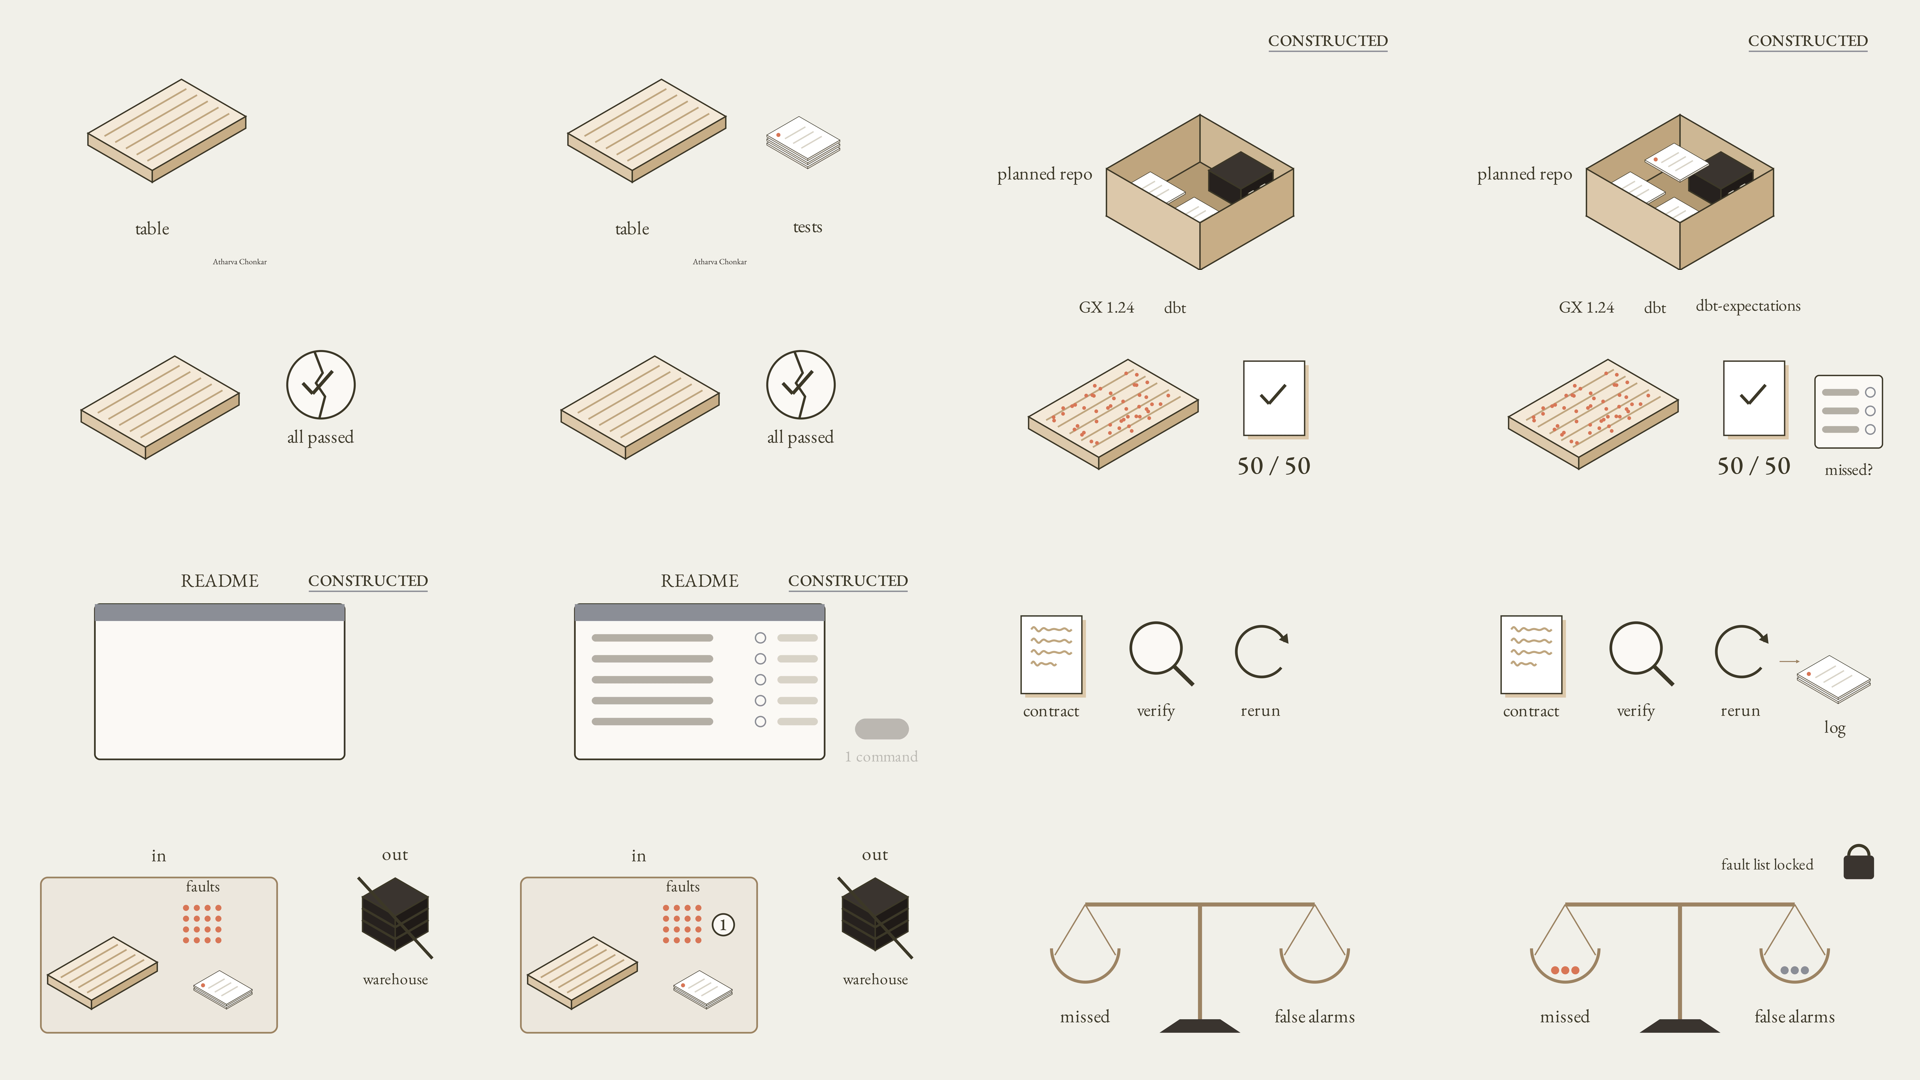
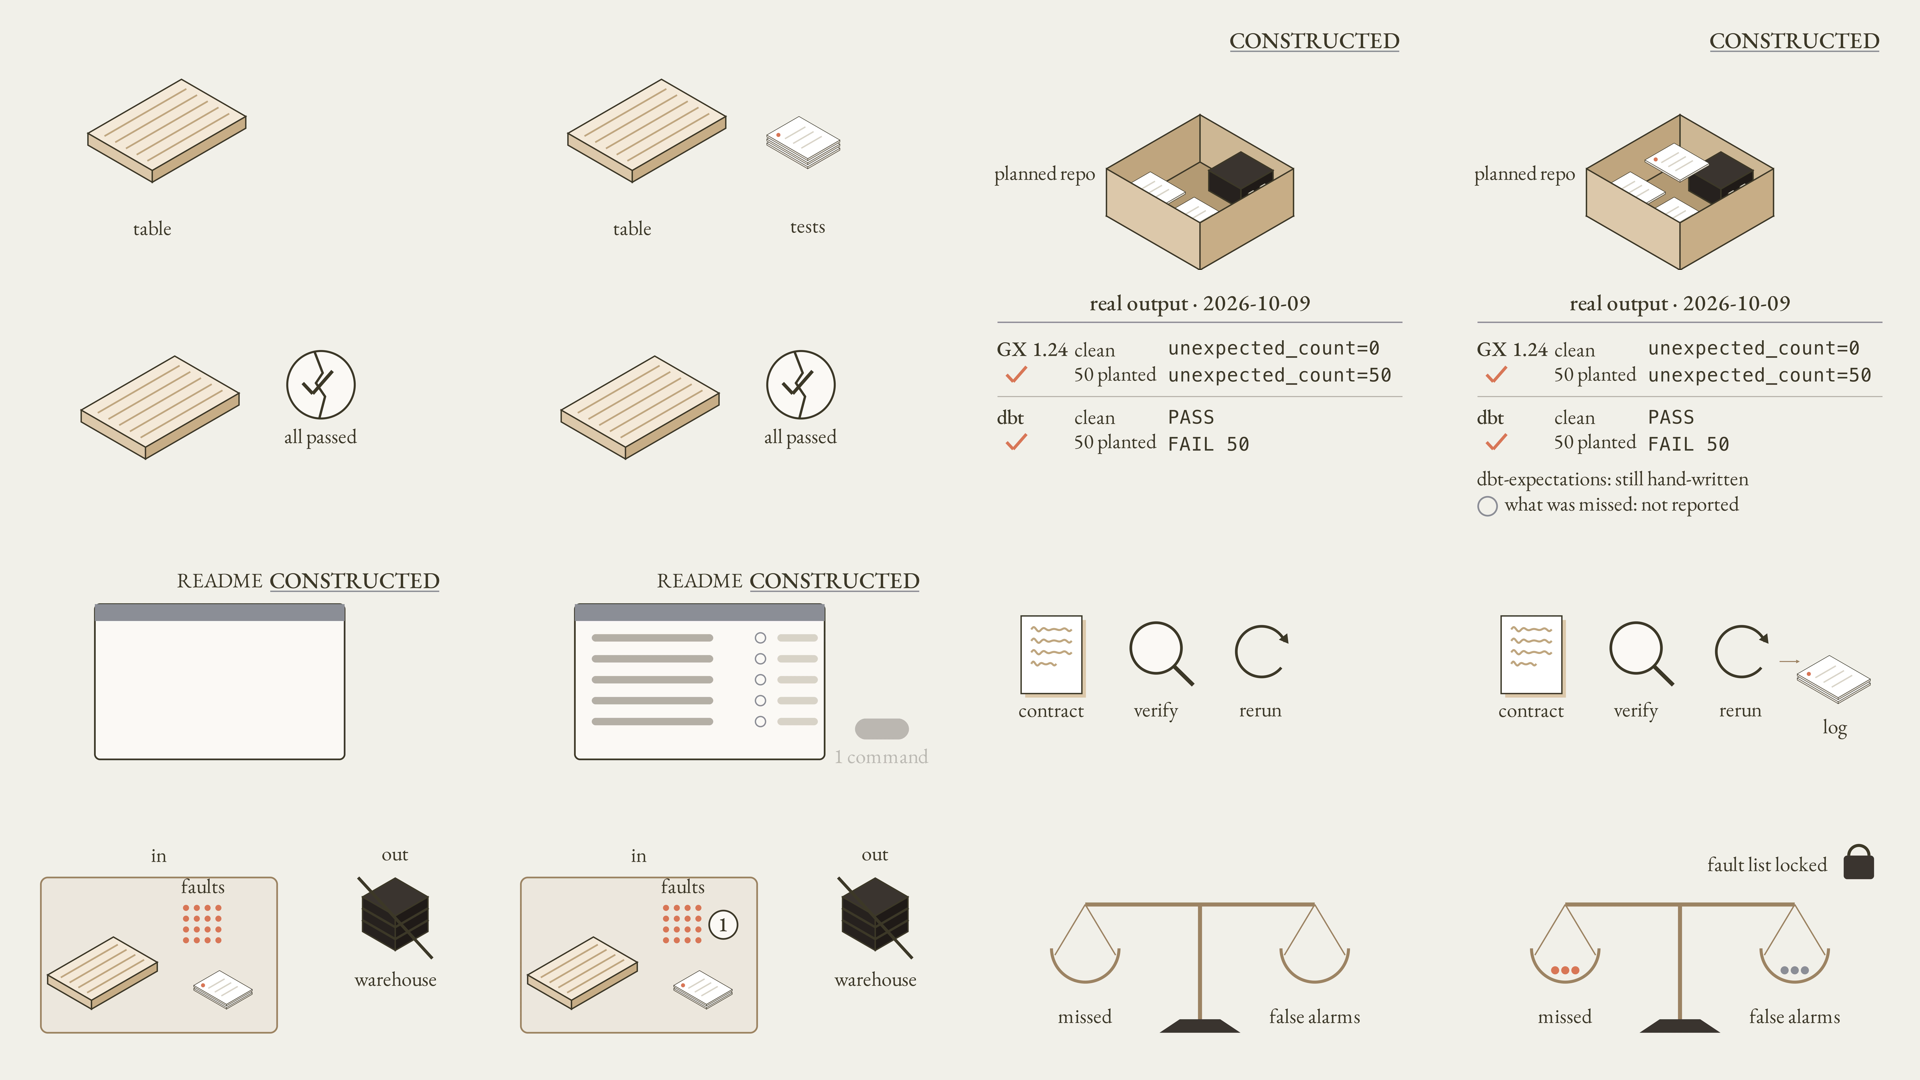
Re-rendered film after feedback: real output in B03, 44pt text floor; refreshed gate reports

diff --git a/fall-2026/atharva-c/final-project-film/film-source/scenes.py b/fall-2026/atharva-c/final-project-film/film-source/scenes.py
@@ -29,8 +29,16 @@ C30 = 0.8660254
 config.background_color = STAGE
 
 
-def T(s, size=36, color=INK, bold=False):
-    return Text(s, font=SERIF, color=color, font_size=size, weight="BOLD" if bold else "NORMAL")
+TYPE_FLOOR = 44   # feedback 2026-10-12: enlarge small text; no label below 44
+
+
+def T(s, size=44, color=INK, bold=False):
+    return Text(s, font=SERIF, color=color, font_size=max(size, TYPE_FLOOR), weight="BOLD" if bold else "NORMAL")
+
+
+def M(s, size=40, color=INK):
+    """Monospace for REAL program output, copied verbatim from evidence/ logs."""
+    return Text(s, font="Menlo", color=color, font_size=size)
 
 
 class Iso:
@@ -402,7 +410,7 @@ def arrow(a, b, color=KRAFT_EDGE):
 
 def stamp(word, x, y):
     """The honesty label for constructed material: ink type beside a grey rule."""
-    t = T(word, 34, INK, bold=True).move_to([x, y, 0])
+    t = T(word, 48, INK, bold=True).move_to([x, y, 0])
     rule = Line([x - t.width / 2, y - 0.32, 0], [x + t.width / 2, y - 0.32, 0], color=BAR1, stroke_width=4)
     return VGroup(t, rule)
 
@@ -430,7 +438,7 @@ class B01_PlannedRepo(Scene):
         iso = Iso(0.0, -2.4, 1.0)
         back, front = iso.open_box(-1.6, -1.6, 0, 3.2, 3.2, 1.4)
         lab = T("planned repo", 40).move_to([-4.6, -1.2, 0])
-        st = stamp("CONSTRUCTED", 3.8, 2.8)
+        st = stamp("CONSTRUCTED", 3.4, 2.8)
         go(self, FadeIn(back), FadeIn(front), rt=0.8)
         go(self, FadeIn(lab), FadeIn(st), rt=0.5)
         parts = [
@@ -443,8 +451,8 @@ class B01_PlannedRepo(Scene):
             m.set_z_index(1)
             at(self, phrase, FadeIn(m, shift=DOWN * 0.5), rt=0.6)
             go(self, m.animate.shift(DOWN * 1.9), rt=0.5, rate_func=ease_in)
-        mark = T("one test, by hand", 36).move_to([4.6, -1.2, 0])
-        tick = check(4.6, -0.4, s=0.3, color=TERRA, w=9)
+        mark = T("one test, by hand", 44).move_to([4.3, -2.6, 0])
+        tick = check(4.3, -1.8, s=0.3, color=TERRA, w=9)
         at(self, "one small test", FadeIn(mark), GrowFromCenter(tick), rt=0.6)
         finish(self)
 
@@ -466,26 +474,34 @@ class B02_CrackedPass(Scene):
 
 
 class B03_FiftyCaught(Scene):
+    """Real output from evidence/2026-10-09-first-planted-fault/output/ (ge_fault.txt, dbt_clean.txt, dbt_faulted.txt)."""
     def construct(self):
-        tags = VGroup(T("GX 1.24", 36), T("dbt", 36), T("dbt-expectations", 36)).arrange(RIGHT, buff=0.9).move_to([0, 2.9, 0])
-        go(self, FadeIn(tags[0]), rt=0.5)
-        iso = Iso(-3.0, -1.9, 1.0)
-        table = data_table(iso, 0, 0, 3.4, 2.4, 5)
-        go(self, FadeIn(table), rt=0.6)
-        rng = np.random.default_rng(7)
-        pts = [iso.p(0.3 + 2.8 * rng.random(), 0.2 + 2.0 * rng.random(), 0.36) for _ in range(50)]
-        dots = VGroup(*[Dot(p, radius=0.055, color=TERRA) for p in pts])
-        at(self, "I planted fifty", LaggedStart(*[FadeIn(d) for d in dots], lag_ratio=0.02), rt=1.0)
-        page = paper(2.2, 0.2, 1.8, 2.2)
-        tick = check(2.15, 0.3, s=0.35, color=INK, w=9)
-        score = T("50 / 50", 56, INK, bold=True).move_to([2.2, -1.8, 0])
-        at(self, "my check caught all fifty", FadeIn(page), rt=0.5)
-        go(self, Create(tick), FadeIn(score), rt=0.6)
-        at(self, "dbt did the same", FadeIn(tags[1]), rt=0.5)
-        at(self, "dbt-expectations package", FadeIn(tags[2]), rt=0.5)
-        sb = scoreboard(5.0, -0.2, 2.0, 3)
-        ml = T("missed?", 36).move_to([5.0, -1.9, 0])
-        at(self, "Nothing told me", FadeIn(sb), FadeIn(ml), rt=0.6)
+        head = T("real output · 2026-10-09", 48, INK, bold=True).move_to([0, 2.95, 0])
+        rule = Line([-6.0, 2.45, 0], [6.0, 2.45, 0], color=BAR1, stroke_width=4)
+        go(self, FadeIn(head), Create(rule), rt=0.6)
+        def row(y, tool, cond, out):
+            g = VGroup()
+            if tool:
+                g.add(T(tool, 44, bold=True).move_to([0, y, 0]).align_to([-6.0, 0, 0], LEFT))
+            g.add(T(cond, 44).move_to([0, y, 0]).align_to([-3.7, 0, 0], LEFT))
+            g.add(M(out, 40).move_to([0, y, 0]).align_to([-0.9, 0, 0], LEFT))
+            return g
+        gx_clean = row(1.65, "GX 1.24", "clean", "unexpected_count=0")
+        gx_fault = row(0.85, "", "50 planted", "unexpected_count=50")
+        sep = Line([-6.0, 0.25, 0], [6.0, 0.25, 0], color=BAR2, stroke_width=3)
+        dbt_clean = row(-0.35, "dbt", "clean", "PASS")
+        dbt_fault = row(-1.15, "", "50 planted", "FAIL 50")
+        at(self, "In Great Expectations", FadeIn(gx_clean), rt=0.6)
+        at(self, "I planted fifty", FadeIn(gx_fault), rt=0.6)
+        hit = check(-5.45, 0.9, s=0.28, color=TERRA, w=9)
+        at(self, "my check caught all fifty", Create(hit), rt=0.5)
+        hit2 = check(-5.45, -1.1, s=0.28, color=TERRA, w=9)
+        at(self, "dbt did the same", Create(sep), FadeIn(dbt_clean), FadeIn(dbt_fault), Create(hit2), rt=0.7)
+        dx = T("dbt-expectations: still hand-written", 44).move_to([0, -2.25, 0]).align_to([-6.0, 0, 0], LEFT)
+        at(self, "dbt-expectations package", FadeIn(dx), rt=0.6)
+        ring = Circle(radius=0.28, stroke_color=BAR1, stroke_width=5).move_to([-5.7, -3.0, 0])
+        mq = T("what was missed: not reported", 44).move_to([0, -3.0, 0]).align_to([-5.2, 0, 0], LEFT)
+        at(self, "Nothing told me", GrowFromCenter(ring), FadeIn(mq), rt=0.6)
         finish(self)
 
 
@@ -495,7 +511,7 @@ class B04_ReadmeMock(Scene):
                                  stroke_color=INK, stroke_width=5).move_to([-0.6, -0.2, 0])
         bar = Rectangle(width=7.4, height=0.5, fill_color=BAR1, fill_opacity=1, stroke_width=0).move_to([-0.6, 1.85, 0])
         lab = T("README", 40).move_to([-0.6, 2.8, 0])
-        st = stamp("CONSTRUCTED", 3.8, 2.8)
+        st = stamp("CONSTRUCTED", 3.4, 2.8)
         go(self, FadeIn(panel), FadeIn(bar), rt=0.6)
         go(self, FadeIn(lab), FadeIn(st), rt=0.5)
         rows = VGroup()
@@ -559,7 +575,7 @@ class B06_Scope(Scene):
         wl = T("warehouse", 34).move_to([4.6, -1.0, 0])
         at(self, "It won't repair data", FadeIn(lo), FadeIn(srv), FadeIn(wl), rt=0.6)
         go(self, Create(strike), rt=0.4)
-        one = VGroup(Circle(radius=0.32, fill_color=CARD, fill_opacity=1, stroke_color=INK, stroke_width=5).move_to([0.1, 0.6, 0]),
+        one = VGroup(Circle(radius=0.42, fill_color=CARD, fill_opacity=1, stroke_color=INK, stroke_width=5).move_to([0.1, 0.6, 0]),
                      T("1", 36, INK, bold=True).move_to([0.1, 0.6, 0]))
         at(self, "The first thing I'll build", GrowFromCenter(one[0]), FadeIn(one[1]), rt=0.5)
         sb = scoreboard(4.6, -2.3, 2.6, 2)
@@ -606,9 +622,9 @@ class B08_TwoColumns(Scene):
         at(self, "Crime Rate Management System", FadeIn(db, shift=DOWN * 0.3), FadeIn(repo), rt=0.7)
         tick = check(-1.6, 1.4, s=0.3, color=TERRA, w=9)
         at(self, "its own testing script", Create(tick), rt=0.4)
-        pages = VGroup(paper(2.0, 0.3, 1.4, 1.8, -0.08), paper(3.4, 0.4, 1.4, 1.8, 0.0), paper(4.8, 0.3, 1.4, 1.8, 0.08))
-        names = VGroup(T("contracts", 32).move_to([2.0, -1.2, 0]), T("evaluation", 32).move_to([3.4, -1.9, 0]),
-                       T("faults", 32).move_to([4.8, -1.2, 0]))
+        pages = VGroup(paper(2.1, 0.75, 1.2, 1.5, -0.08), paper(3.4, 0.85, 1.2, 1.5, 0.0), paper(4.7, 0.75, 1.2, 1.5, 0.08))
+        names = VGroup(T("prompt contracts", 44).move_to([3.4, -1.15, 0]), T("evaluation", 44).move_to([3.4, -1.85, 0]),
+                       T("fault injection", 44).move_to([3.4, -2.55, 0]))
         at(self, "The new part for me", FadeIn(lb), LaggedStart(*[FadeIn(p, shift=DOWN * 0.3) for p in pages], lag_ratio=0.25), rt=0.9)
         go(self, FadeIn(names), rt=0.5)
         finish(self)

diff --git a/fall-2026/atharva-c/final-project-film/film-source/make_sheet.py b/fall-2026/atharva-c/final-project-film/film-source/make_sheet.py
@@ -56,7 +56,7 @@ for b in beats:   # carry measured audio forward only if the narration hasn't ch
 
 sheet = {"metadata": {
     "slug": SLUG, "title": TITLE, "topic": "DATA ENGINEERING · FINAL PROJECT PITCH", "skill": "show-tell",
-    "style_preset": "show-tell", "channel": "atharva-chonkar", "channel_title": "Atharva C",
+    "style_preset": "show-tell", "channel": "atharva-chonkar",
     "author": "Atharva C", "voice": VOICE, "voice_kokoro": VOICE, "engine": "kokoro", "clock": "narration",
     "palette": "claude", "fps": 24, "aspect_ratio": "16:9", "width": 3840, "height": 2160, "caption_policy": "none",
     "bookend_exempt": ["cold-open", "bvdt", "bhtf"],

diff --git a/fall-2026/atharva-c/final-project-film/gate-reports/GATE-T-TYPECHECK.md b/fall-2026/atharva-c/final-project-film/gate-reports/GATE-T-TYPECHECK.md
@@ -1,21 +1,21 @@
 # TYPECHECK.md — GATE T
 
-Reel: `seeded-faults-pitch`  |  Checked: 2026-10-10T20:53  |  Overall: PASS  |  Beats checked: 11  |  FAILs: 0
+Reel: `seeded-faults-pitch`  |  Checked: 2026-10-12T22:00  |  Overall: PASS  |  Beats checked: 11  |  FAILs: 0
 
 Spec: `skills/make/kerning/reference/type-spec.md` §8.  Floor: 1.9% frame-height.  Contrast: 4.5:1 WCAG.  Kern threshold: 3.5× expected advance.  Wordy budget: 2 elements.
 
 | beat | lane | polarity | worst finding | status | fix |
 |------|------|----------|---------------|--------|-----|
 | B00 | manim | light | min-size §8.1: min text-run height 837px >= floor 41px | PASS | — |
-| B01 | manim | light | min-size §8.1: min text-run height 88px >= floor 41px | PASS | — |
+| B01 | manim | light | min-size §8.1: min text-run height 69px >= floor 41px (individual-char fallback at 2×) | PASS | — |
 | B02 | manim | light | min-size §8.1: min text-run height 837px >= floor 41px | PASS | — |
-| B03 | manim | light | min-size §8.1: min text-run height 891px >= floor 41px | PASS | — |
-| B04 | manim | light | min-size §8.1: min text-run height 87px >= floor 41px | PASS | — |
-| B05 | manim | light | min-size §8.1: min text-run height 60px >= floor 41px (individual-char fallback at 2×) | PASS | — |
-| B06 | manim | light | min-size §8.1: min text-run height 53px >= floor 41px | PASS | — |
-| B07 | manim | light | min-size §8.1: min text-run height 63px >= floor 41px | PASS | — |
-| B08 | manim | light | min-size §8.1: min text-run height 53px >= floor 41px (individual-char fallback at 2×) | PASS | — |
-| B09 | manim | light | min-size §8.1: min text-run height 54px >= floor 41px (individual-char fallback at 2×) | PASS | — |
+| B03 | manim | light | min-size §8.1: min text-run height 69px >= floor 41px (individual-char fallback at 2×) | PASS | — |
+| B04 | manim | light | min-size §8.1: min text-run height 113px >= floor 41px | PASS | — |
+| B05 | manim | light | min-size §8.1: min text-run height 69px >= floor 41px (individual-char fallback at 2×) | PASS | — |
+| B06 | manim | light | min-size §8.1: min text-run height 69px >= floor 41px | PASS | — |
+| B07 | manim | light | min-size §8.1: min text-run height 70px >= floor 41px | PASS | — |
+| B08 | manim | light | min-size §8.1: min text-run height 69px >= floor 41px (individual-char fallback at 2×) | PASS | — |
+| B09 | manim | light | min-size §8.1: min text-run height 66px >= floor 41px (individual-char fallback at 2×) | PASS | — |
 | BOUT | manim | light | min-size §8.1: min text-run height 69px >= floor 41px (individual-char fallback at 2×) | PASS | — |
 
 ---

diff --git a/fall-2026/atharva-c/final-project-film/gate-reports/README.md b/fall-2026/atharva-c/final-project-film/gate-reports/README.md
@@ -1,6 +1,6 @@
 # Gate reports — Seeded Faults pitch film
 
-Toolkit: Brutalist (github.com/nikbearbrown/brutalist.art) at commit `b21f625`, free local pipeline only. Final run 2026-10-10.
+Toolkit: Brutalist (github.com/nikbearbrown/brutalist.art) at commit `b21f625`, free local pipeline only. Final run 2026-10-12 (re-render after feedback: real output on screen in B03, 44-pt minimum text).
 
 | Gate | What it checks | Result | File |
 |---|---|---|---|
@@ -10,11 +10,11 @@ Toolkit: Brutalist (github.com/nikbearbrown/brutalist.art) at commit `b21f625`, 
 | B (layout audit) | rendered text inside the safe area, no collisions | **PASS** (CLEAN) | `GATE-B-layout_audit.md` |
 | V (frame-level visual QC) | 22 sampled frames | **PASS** (0 BLOCKER, 0 MAJOR) | `GATE-V-REPORT.md`, `GATE-V-contact_sheet.png` |
 | T (type lock, before final) | text size, overlap, contrast at each clip midpoint | **PASS** | `GATE-T-TYPECHECK.md` |
-| Render integrity (`art final`) | 4K master, hashes of every input | **ready**: 3840×2160, 216.8 s, sha256 `3142aa40…0137` | `render-integrity.verified.json`, `art-final-4k.log` |
+| Render integrity (`art final`) | 4K master, hashes of every input | **ready**: 3840×2160, 216.8 s, sha256 `fd90da0c…c84b` | `render-integrity.verified.json`, `art-final-4k.log` |
 | Bookend check (standalone, not wired into run/final) | toolkit house opening and closing cards | **FAIL — expected and explained below** | `bookend_check.txt` |
 
 ## Known, explained non-passes
-- **`bookend_check.py`: FAIL.** It expects the toolkit's `ClaudeTitleOutro` card, which hard-codes the instructor's handle "@NikBearBrown" with no override. The assignment forbids the instructor's name, persona or credit line, so the outro is a drawn title scene with my own name. The check then reports an empty handle/title on the outro beat. I didn't fake those props to make it pass.
+- **`bookend_check.py`: FAIL.** It expects the toolkit's `ClaudeTitleOutro` card, which hard-codes the instructor's handle "@NikBearBrown" with no override. The assignment forbids the instructor's name, persona or credit line, so the outro is a drawn title scene with my own name. With no ClaudeTitleOutro props on the outro beat, the check reports a missing handle and title (and, since I removed the tiny `channel_title` overlay, it falls back to expecting "@NikBearBrown"). I didn't fake those props to make it pass.
 - **SKIN LINT advisories** in `art-run-4k.log` (COLD OPEN LAW / OUTRO LAW) come from the same choice: no persona cold open, no ClaudeTitleOutro. They are advisory and don't block.
 
 Earlier failing runs and their fixes are logged in `../FRICTIONAL.md` (2026-10-10).

diff --git a/fall-2026/atharva-c/final-project-film/BUILD-PROMPT.md b/fall-2026/atharva-c/final-project-film/BUILD-PROMPT.md
@@ -37,7 +37,7 @@ Pronunciation was checked with faster-whisper (base.en) on every beat. B01 and B
 python3 runtime/qc/factcheck_check.py $B
 python3 runtime/scripts/bookend_check.py $B                # expected FAIL, see gate-reports/README.md
 ```
[2 lines of base64/hex data omitted]
 
 ## Prompts given to Claude Code (summarised; full conversation not included)
 1. 2026-10-09: explain the assignment; suggest projects for Data Engineering / BI roles; create the submission files.
